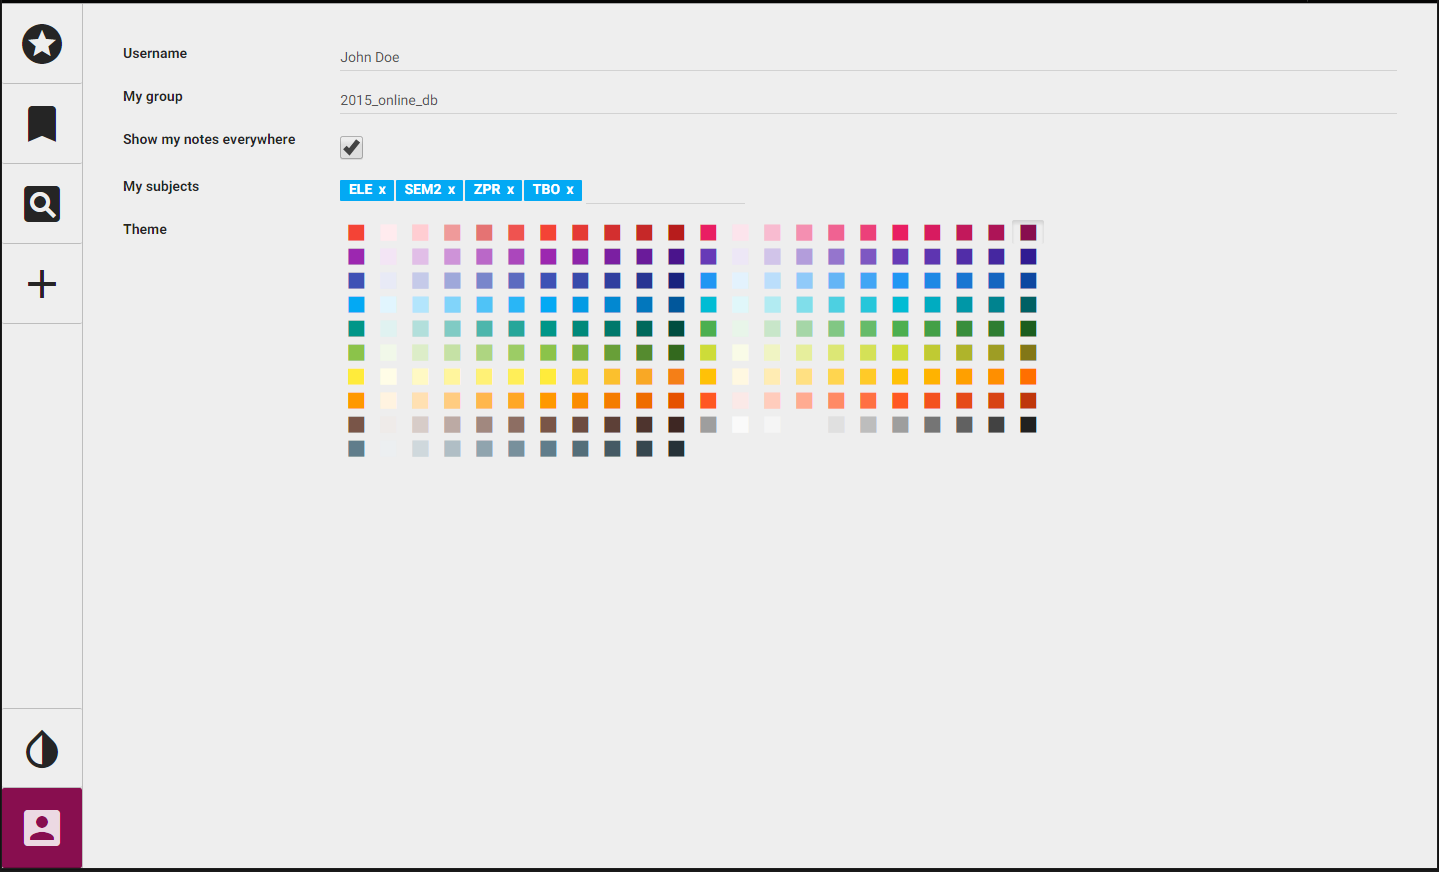
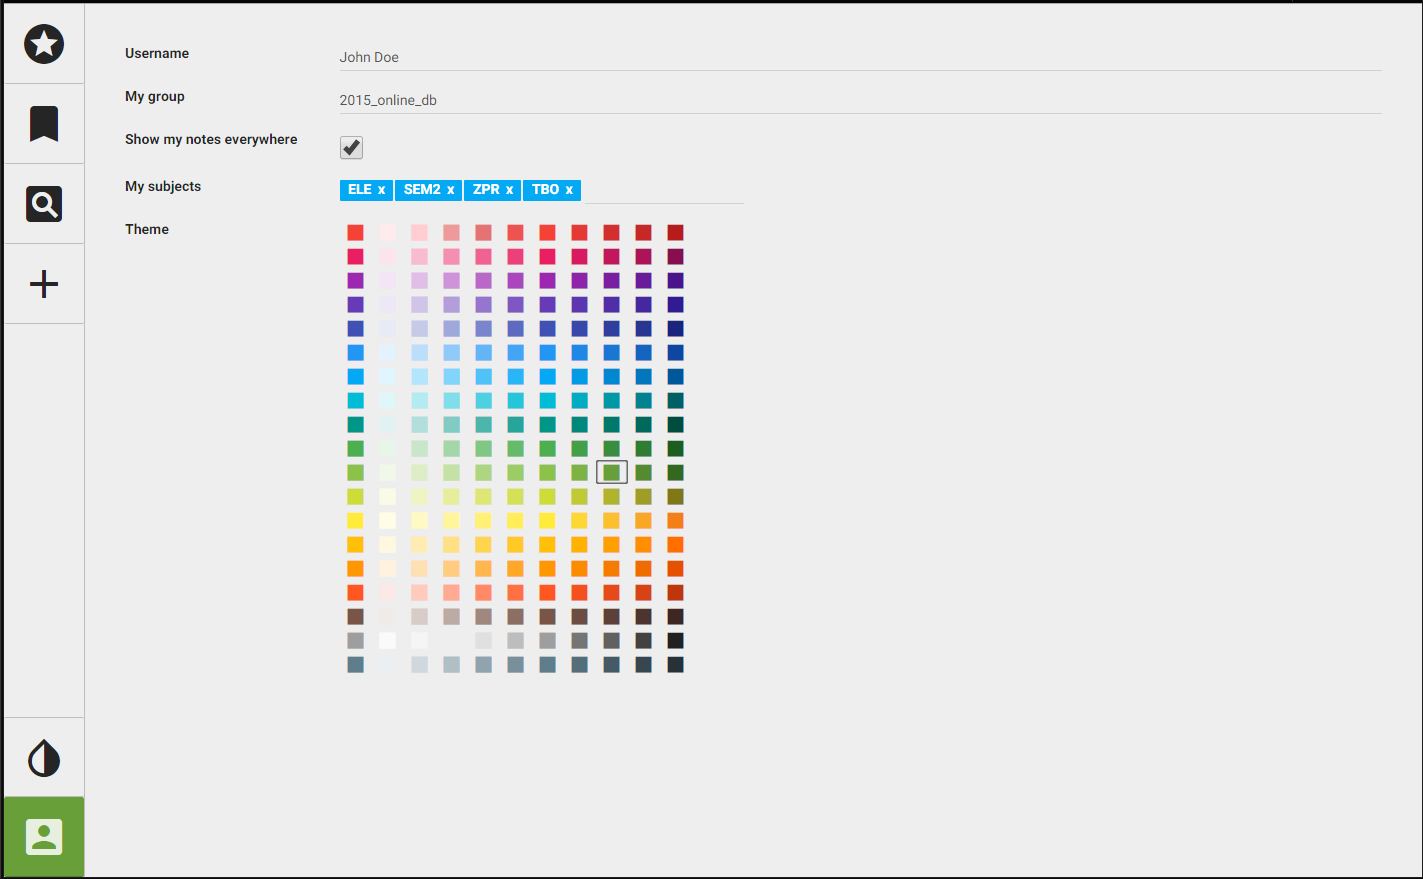
Update Theme selector

diff --git a/public/dest/styles/site.css b/public/dest/styles/site.css
@@ -1,2 +1,2 @@
-.inverted{-webkit-filter:invert(100%) !important;filter:invert(100%) !important}.left{float:left}.right{float:right}.btn>[class^="mdi-"]{line-height:.7em;vertical-align:middle;margin-left:-25px;margin-right:5px}[class^='toolbar']{width:80px;position:absolute}[class^='toolbar'] .btn{width:80px;height:80px;padding:15px;margin:0;border:0px solid rgba(0,0,0,0.2);border-bottom-width:1px}.toolbar-top{top:0}.toolbar-bottom{bottom:0}.toolbar-bottom .btn:first-child{border-top-width:1px}body,.page{height:100%}.content{position:absolute;height:100%;margin-left:80px;border-left:1px solid rgba(0,0,0,0.2);width:calc(100% - 80px)}note-list{display:inline-block;width:400px}note-preview{position:absolute;height:calc(100% - 40px);width:calc(100% - 400px);border-left:1px solid rgba(0,0,0,0.2);overflow-y:scroll}note-list .list-group>.list-group-item{border-bottom:1px solid rgba(0,0,0,0.2);margin-bottom:0}note-list .list-group>.list-group-item.selected{background:#fff;margin-right:-1px;z-index:1}note-list .list-group>.list-group-item.selected .row-action-primary{padding-right:1px}note-list .list-group>.list-group-item.no-items .list-group-item-heading{color:#999;font-style:italic}note-list .list-group>.list-group-item .row-content{min-height:55px}note-list .list-group>.list-group-item .list-group-item-heading{font-size:16px;line-height:18px;font-weight:500;margin-top:8px}note-list .list-group>.list-group-item .list-group-item-heading>i{font-size:14px;margin-right:5px;color:teal}note-list .list-group>.list-group-item .list-group-item-text{margin-bottom:5px}note-list .list-group>.list-group-item .row-action-primary{float:right;padding-top:0;padding-right:0}note-list .list-group>.list-group-item .row-action-primary>i{height:55px;line-height:55px;background:none;color:inherit}.note-preview-content{background:#fff;padding:5px 30px;min-height:100%;overflow:auto}.starred-title-icon{color:#ddd}.starred-title-icon:hover{color:#aaa}.starred-title-icon.active{color:teal}text-angular .btn-toolbar>.btn-group{margin-bottom:-5px}text-angular .btn-toolbar>.btn-group:last-child{margin-bottom:5px}.navbar{min-height:40px;margin-bottom:0}.navbar .navbar-nav>li{border-bottom:6px solid rgba(255,255,255,0);height:40px}.navbar .navbar-nav>li.active{background-color:rgba(255,255,255,0.2);border-bottom:6px solid rgba(255,255,255,0.5);transition:background-color .1s .2s linear, border-color .5s linear}.navbar .navbar-nav>li>a{padding-top:10px;padding-bottom:10px}.navbar .navbar-nav>li .add-subject{padding-left:10px;padding-right:10px}.navbar .navbar-nav>li .add-subject>i{padding-top:0;margin-top:-4px}.user-profile{padding:20px 40px}.user-profile input[type="checkbox"]{width:24px}.theme-selector{width:750px}.theme-selector>.btn{margin:0;padding:4px 0px}.theme-selector>.btn>i{margin:0;font-size:32px;line-height:0.5em}.angularjs-bootstrap-tagsinput [data-role=tags]{margin-left:2px;overflow-y:auto;display:inline}.angularjs-bootstrap-tagsinput [data-role=tags] [data-role=tag]{float:left;margin:3px 2px 0 0;font-size:100%}.angularjs-bootstrap-tagsinput [data-role=tags] [data-role=remove]{margin-left:3px;cursor:pointer}.angularjs-bootstrap-tagsinput [data-role=tags] [data-role=remove]:after{padding:0;content:"x"}.angularjs-bootstrap-tagsinput [data-role=tags] [data-role=remove]:hover{box-shadow:inset 0 1px 0 rgba(255,255,255,0.2),0 5px 2px rgba(0,0,0,0.05)}.angularjs-bootstrap-tagsinput [data-role=tags] [data-role=remove]:hover:active{box-shadow:inset 0 3px 5px rgba(0,0,0,0.125)}.angularjs-bootstrap-tagsinput [data-role=tagsinput-message]{display:none;padding:0 5px;margin-top:5px;color:orange}.angularjs-bootstrap-tagsinput .tagsinput{display:inline-block}.angularjs-bootstrap-tagsinput .tagsinput [data-role=tagsinput]:focus{border:none;box-shadow:none}.angularjs-bootstrap-tagsinput .tagsinput [data-role=tagsinput].tagsinput-invalid{color:#ff0000}
+.inverted{-webkit-filter:invert(100%) !important;filter:invert(100%) !important}.left{float:left}.right{float:right}.btn>[class^="mdi-"]{line-height:.7em;vertical-align:middle;margin-left:-25px;margin-right:5px}[class^='toolbar']{width:80px;position:absolute}[class^='toolbar'] .btn{width:80px;height:80px;padding:15px;margin:0;border:0px solid rgba(0,0,0,0.2);border-bottom-width:1px}.toolbar-top{top:0}.toolbar-bottom{bottom:0}.toolbar-bottom .btn:first-child{border-top-width:1px}body,.page{height:100%}.content{position:absolute;height:100%;margin-left:80px;border-left:1px solid rgba(0,0,0,0.2);width:calc(100% - 80px)}note-list{display:inline-block;width:400px}note-preview{position:absolute;height:calc(100% - 40px);width:calc(100% - 400px);border-left:1px solid rgba(0,0,0,0.2);overflow-y:scroll}note-list .list-group>.list-group-item{border-bottom:1px solid rgba(0,0,0,0.2);margin-bottom:0}note-list .list-group>.list-group-item.selected{background:#fff;margin-right:-1px;z-index:1}note-list .list-group>.list-group-item.selected .row-action-primary{padding-right:1px}note-list .list-group>.list-group-item.no-items .list-group-item-heading{color:#999;font-style:italic}note-list .list-group>.list-group-item .row-content{min-height:55px}note-list .list-group>.list-group-item .list-group-item-heading{font-size:16px;line-height:18px;font-weight:500;margin-top:8px}note-list .list-group>.list-group-item .list-group-item-heading>i{font-size:14px;margin-right:5px;color:teal}note-list .list-group>.list-group-item .list-group-item-text{margin-bottom:5px}note-list .list-group>.list-group-item .row-action-primary{float:right;padding-top:0;padding-right:0}note-list .list-group>.list-group-item .row-action-primary>i{height:55px;line-height:55px;background:none;color:inherit}.note-preview-content{background:#fff;padding:5px 30px;min-height:100%;overflow:auto}.starred-title-icon{color:#ddd}.starred-title-icon:hover{color:#aaa}.starred-title-icon.active{color:teal}text-angular .btn-toolbar>.btn-group{margin-bottom:-5px}text-angular .btn-toolbar>.btn-group:last-child{margin-bottom:5px}.navbar{min-height:40px;margin-bottom:0}.navbar .navbar-nav>li{border-bottom:6px solid rgba(255,255,255,0);height:40px}.navbar .navbar-nav>li.active{background-color:rgba(255,255,255,0.2);border-bottom:6px solid rgba(255,255,255,0.5);transition:background-color .1s .2s linear, border-color .5s linear}.navbar .navbar-nav>li>a{padding-top:10px;padding-bottom:10px}.navbar .navbar-nav>li .add-subject{padding-left:10px;padding-right:10px}.navbar .navbar-nav>li .add-subject>i{padding-top:0;margin-top:-4px}.user-profile{padding:20px 40px}.user-profile input[type="checkbox"]{width:24px}.theme-selector{width:400px}.theme-selector>.btn{margin:0;padding:4px 0px}.theme-selector>.btn.active{box-shadow:inset 0 0 2px 1px}.theme-selector>.btn>i{margin:0;font-size:32px;line-height:0.5em}.angularjs-bootstrap-tagsinput [data-role=tags]{margin-left:2px;overflow-y:auto;display:inline}.angularjs-bootstrap-tagsinput [data-role=tags] [data-role=tag]{float:left;margin:3px 2px 0 0;font-size:100%}.angularjs-bootstrap-tagsinput [data-role=tags] [data-role=remove]{margin-left:3px;cursor:pointer}.angularjs-bootstrap-tagsinput [data-role=tags] [data-role=remove]:after{padding:0;content:"x"}.angularjs-bootstrap-tagsinput [data-role=tags] [data-role=remove]:hover{box-shadow:inset 0 1px 0 rgba(255,255,255,0.2),0 5px 2px rgba(0,0,0,0.05)}.angularjs-bootstrap-tagsinput [data-role=tags] [data-role=remove]:hover:active{box-shadow:inset 0 3px 5px rgba(0,0,0,0.125)}.angularjs-bootstrap-tagsinput [data-role=tagsinput-message]{display:none;padding:0 5px;margin-top:5px;color:orange}.angularjs-bootstrap-tagsinput .tagsinput{display:inline-block}.angularjs-bootstrap-tagsinput .tagsinput [data-role=tagsinput]:focus{border:none;box-shadow:none}.angularjs-bootstrap-tagsinput .tagsinput [data-role=tagsinput].tagsinput-invalid{color:#ff0000}
 /*# sourceMappingURL=site.css.map */

diff --git a/public/styles/partials/_user-profile.scss b/public/styles/partials/_user-profile.scss
@@ -7,11 +7,15 @@
 }
 
 .theme-selector {
-	width: 750px;
+	width: 400px;
 	
 	> .btn { 
 		margin: 0;
 		padding: 4px 0px;
+		
+		&.active {
+			box-shadow: inset 0 0 2px 1px;
+		}
 		
 		> i {
 			margin: 0;
